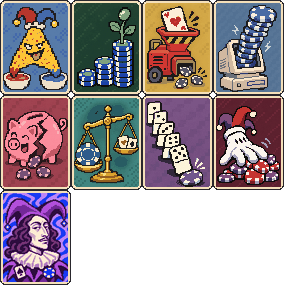
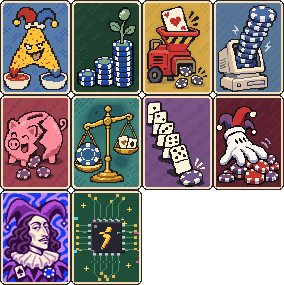
Add Unstable Chipset and trim the README (0.2.0)
Unstable Chipset is an Uncommon Joker that multiplies Chips by a random
amount from X0.5 to X3 each hand, rolled in steps of 0.1. Its sprite fills
cell (1, 2) of the Joker sheet.

Remove the Development section from the README so the Thunderstore page
shows only what players need, and bump the version to 0.2.0.

Changed region(s): [[0.2254, 0.6456, 0.507, 1.0]]

diff --git a/README.md b/README.md
@@ -1,8 +1,8 @@
 # MortemChipX
 
-A Balatro mod that adds 9 new Jokers that multiply your Chips.
+A Balatro mod that adds 10 new Jokers that multiply your Chips.
 
-![The nine Jokers](https://raw.githubusercontent.com/MrMortem/MortemChipX/main/assets/2x/chip_jokers.png)
+![The ten Jokers](https://raw.githubusercontent.com/MrMortem/MortemChipX/main/assets/2x/chip_jokers.png)
 
 ## Jokers
 
@@ -17,6 +17,7 @@ A Balatro mod that adds 9 new Jokers that multiply your Chips.
 | Domino Effect | Uncommon | $6 | Each scoring card gives X1.15 Chips if its rank is exactly one higher than the scoring card to its left. |
 | All In | Rare | $9 | X5 Chips on the final hand of the round, X0.75 Chips otherwise. |
 | Pascal's Wager | Legendary | $20 | Each Ace held in hand gives X2 Chips. |
+| Unstable Chipset | Uncommon | $6 | X0.5 to X3 Chips, chosen at random each hand. |
 
 ## Installation
 
@@ -28,42 +29,6 @@ Requires [Steamodded](https://thunderstore.io/c/balatro/p/Steamodded/Steamodded/
 - **Manual:** download the zip from
   [Releases](https://github.com/MrMortem/MortemChipX/releases) and extract it
   into a folder inside your Balatro `Mods` directory.
-
-## Development
-
-```
-MortemChipX.lua        entry point: atlas + list of Jokers to load
-MortemChipX.json       Steamodded metadata
-thunderstore.toml      Thunderstore package definition
-icon.png               Thunderstore icon (256x256)
-src/jokers/            one file per Joker
-localization/en-us.lua Joker names and descriptions
-assets/1x, assets/2x   Joker sheet, 4x3 cells of 71x95 (2x: 142x190)
-tests/test_jokers.lua  Joker rule tests against a stubbed game API
-scripts/stage.sh       gathers the shipped files into dist/
-```
-
-To add a Joker: add a file in `src/jokers/`, list it in `MortemChipX.lua`,
-add its text under `j_mcx_<key>` in `localization/en-us.lua`, and draw it into
-a cell of both sheets.
-
-Run the rule tests with `luajit tests/test_jokers.lua`. To test in game,
-symlink the repo into the Balatro `Mods` folder.
-
-### Releasing
-
-1. Set the same version in `thunderstore.toml` (`versionNumber`) and
-   `MortemChipX.json` (`version`), and add a `## <version>` section to
-   `CHANGELOG.md`.
-2. Tag and push: `git tag v0.1.0 && git push origin v0.1.0`.
-3. The Release workflow builds the package with
-   [tcli](https://github.com/thunderstore-io/thunderstore-cli), attaches the
-   zip to a GitHub release, and publishes it to Thunderstore.
-
-Publishing to Thunderstore needs a `THUNDERSTORE_TOKEN` repository secret
-holding a service account token for the MortemDevelopment team. Without it
-the workflow still makes the GitHub release, and the zip can be uploaded by
-hand. Tags with a suffix, such as `v0.2.0-rc1`, are never sent to Thunderstore.
 
 ## License
 

diff --git a/CHANGELOG.md b/CHANGELOG.md
@@ -1,5 +1,11 @@
 # Changelog
 
+## 0.2.0
+
+- New Joker: Unstable Chipset (Uncommon). Multiplies Chips by a random
+  amount from X0.5 to X3 each hand.
+- Trimmed the README to what players need.
+
 ## 0.1.0
 
 First release. Adds nine Jokers that multiply Chips:
